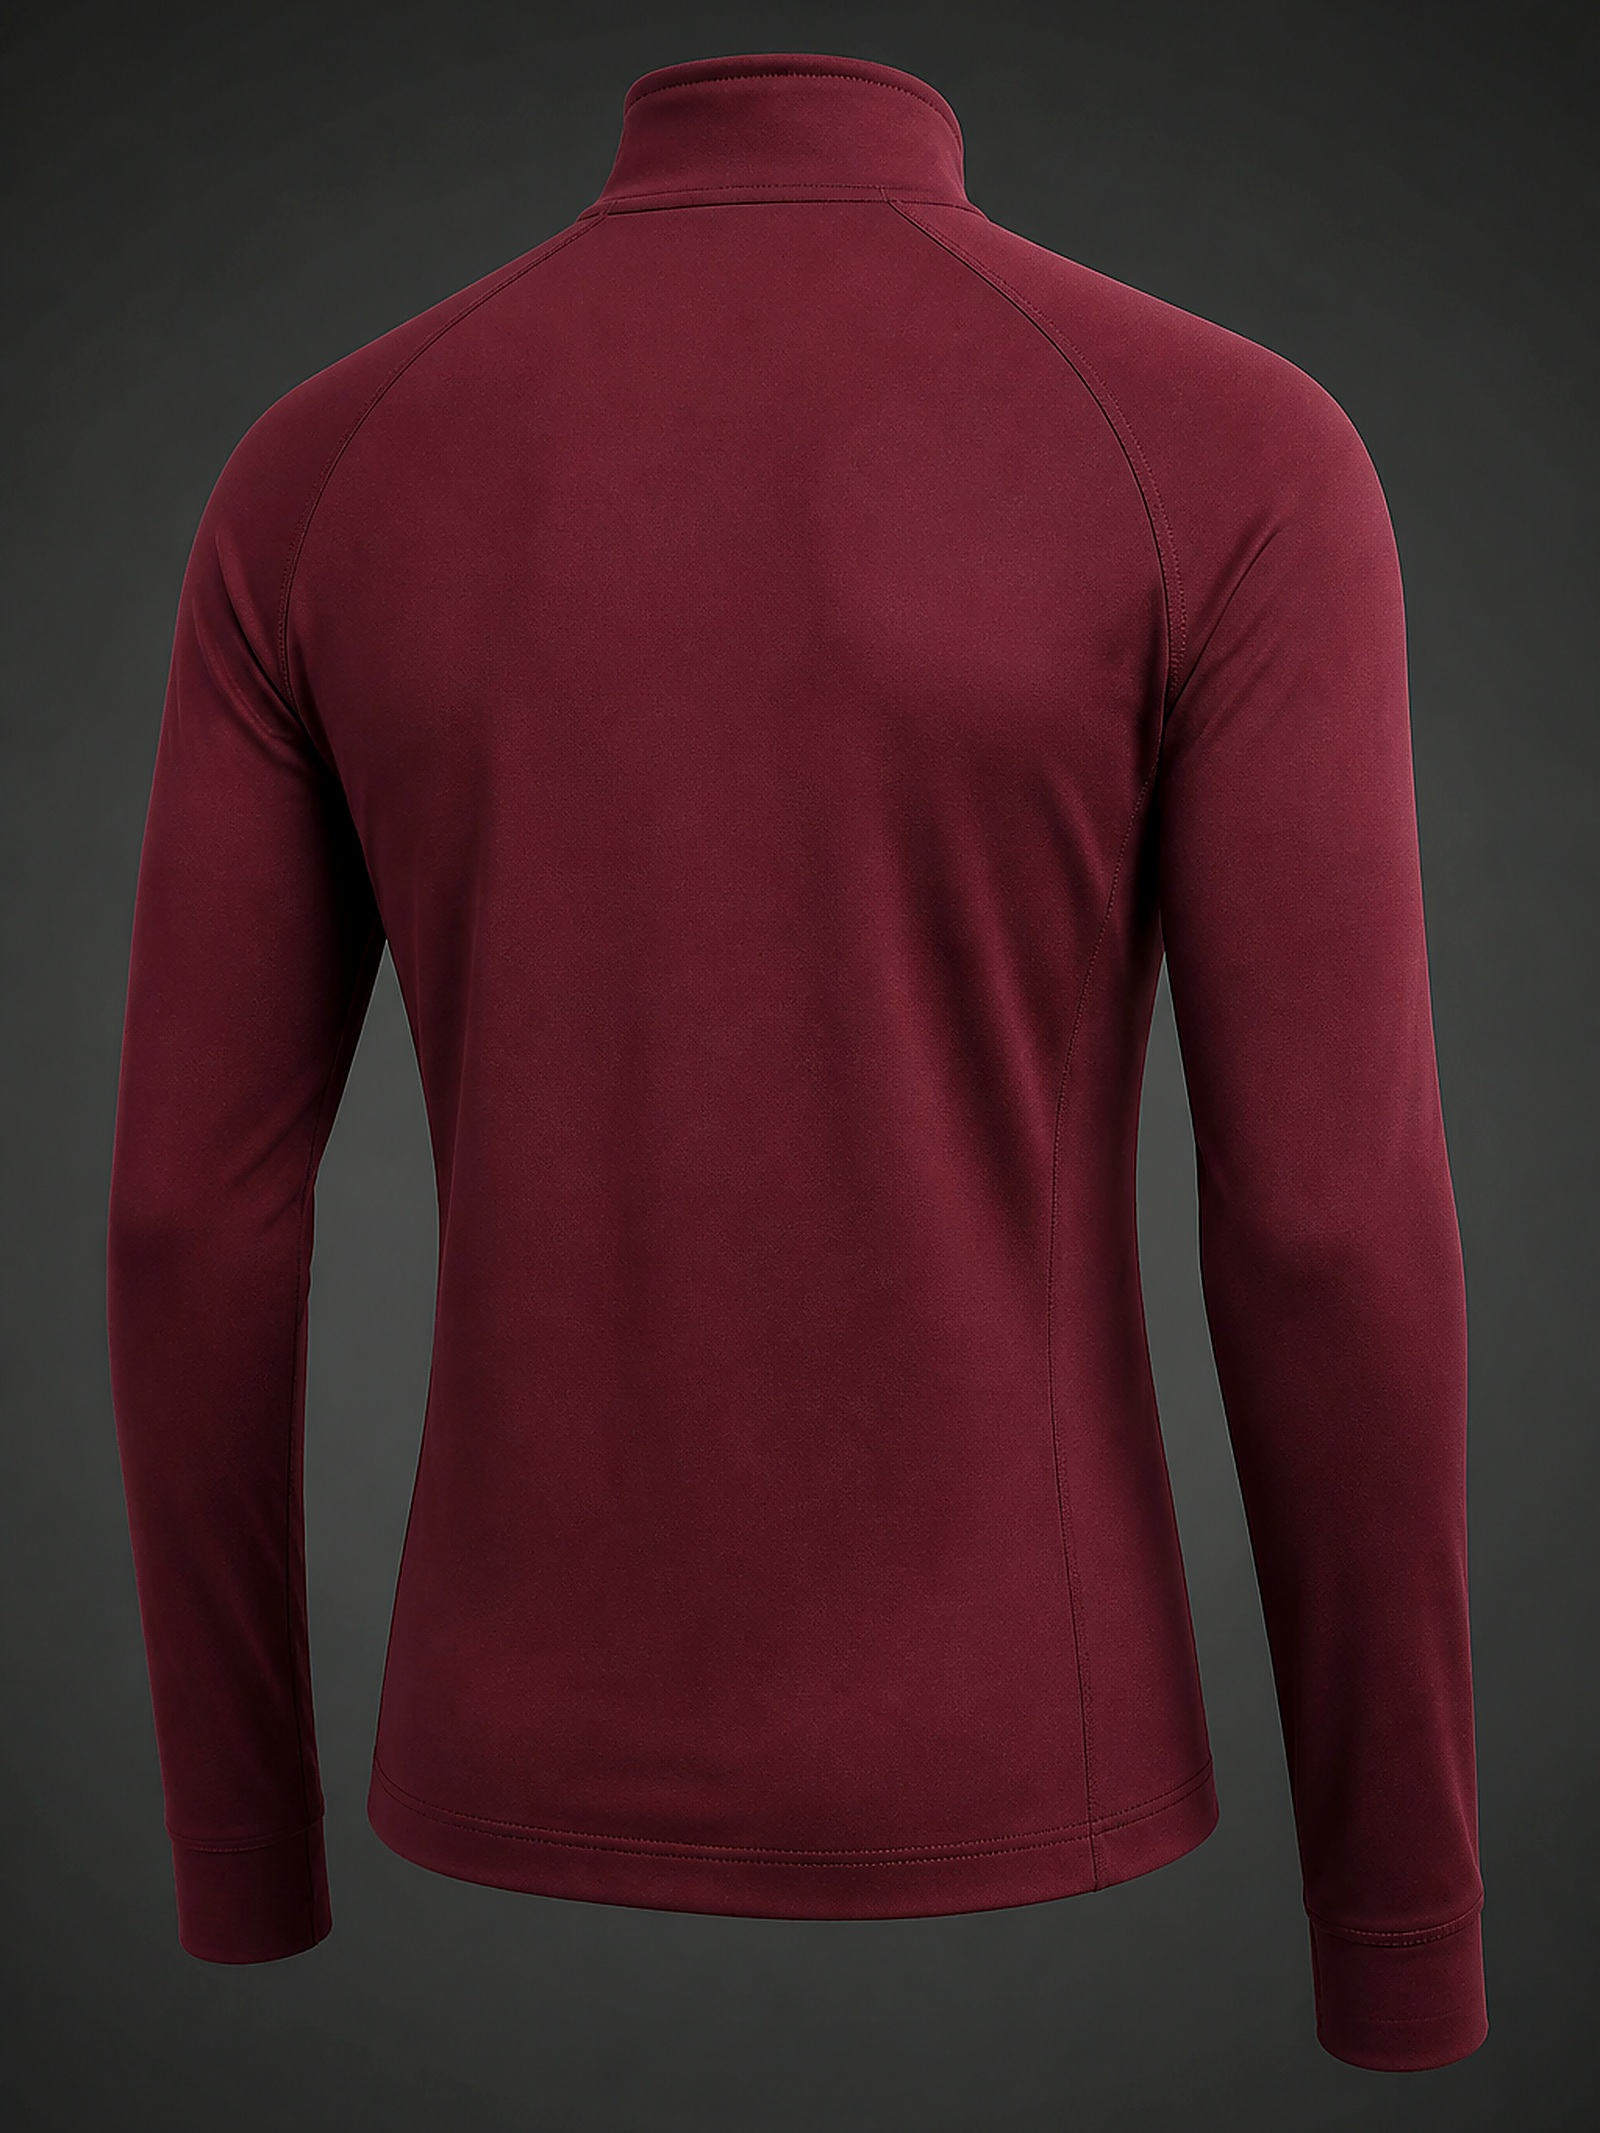
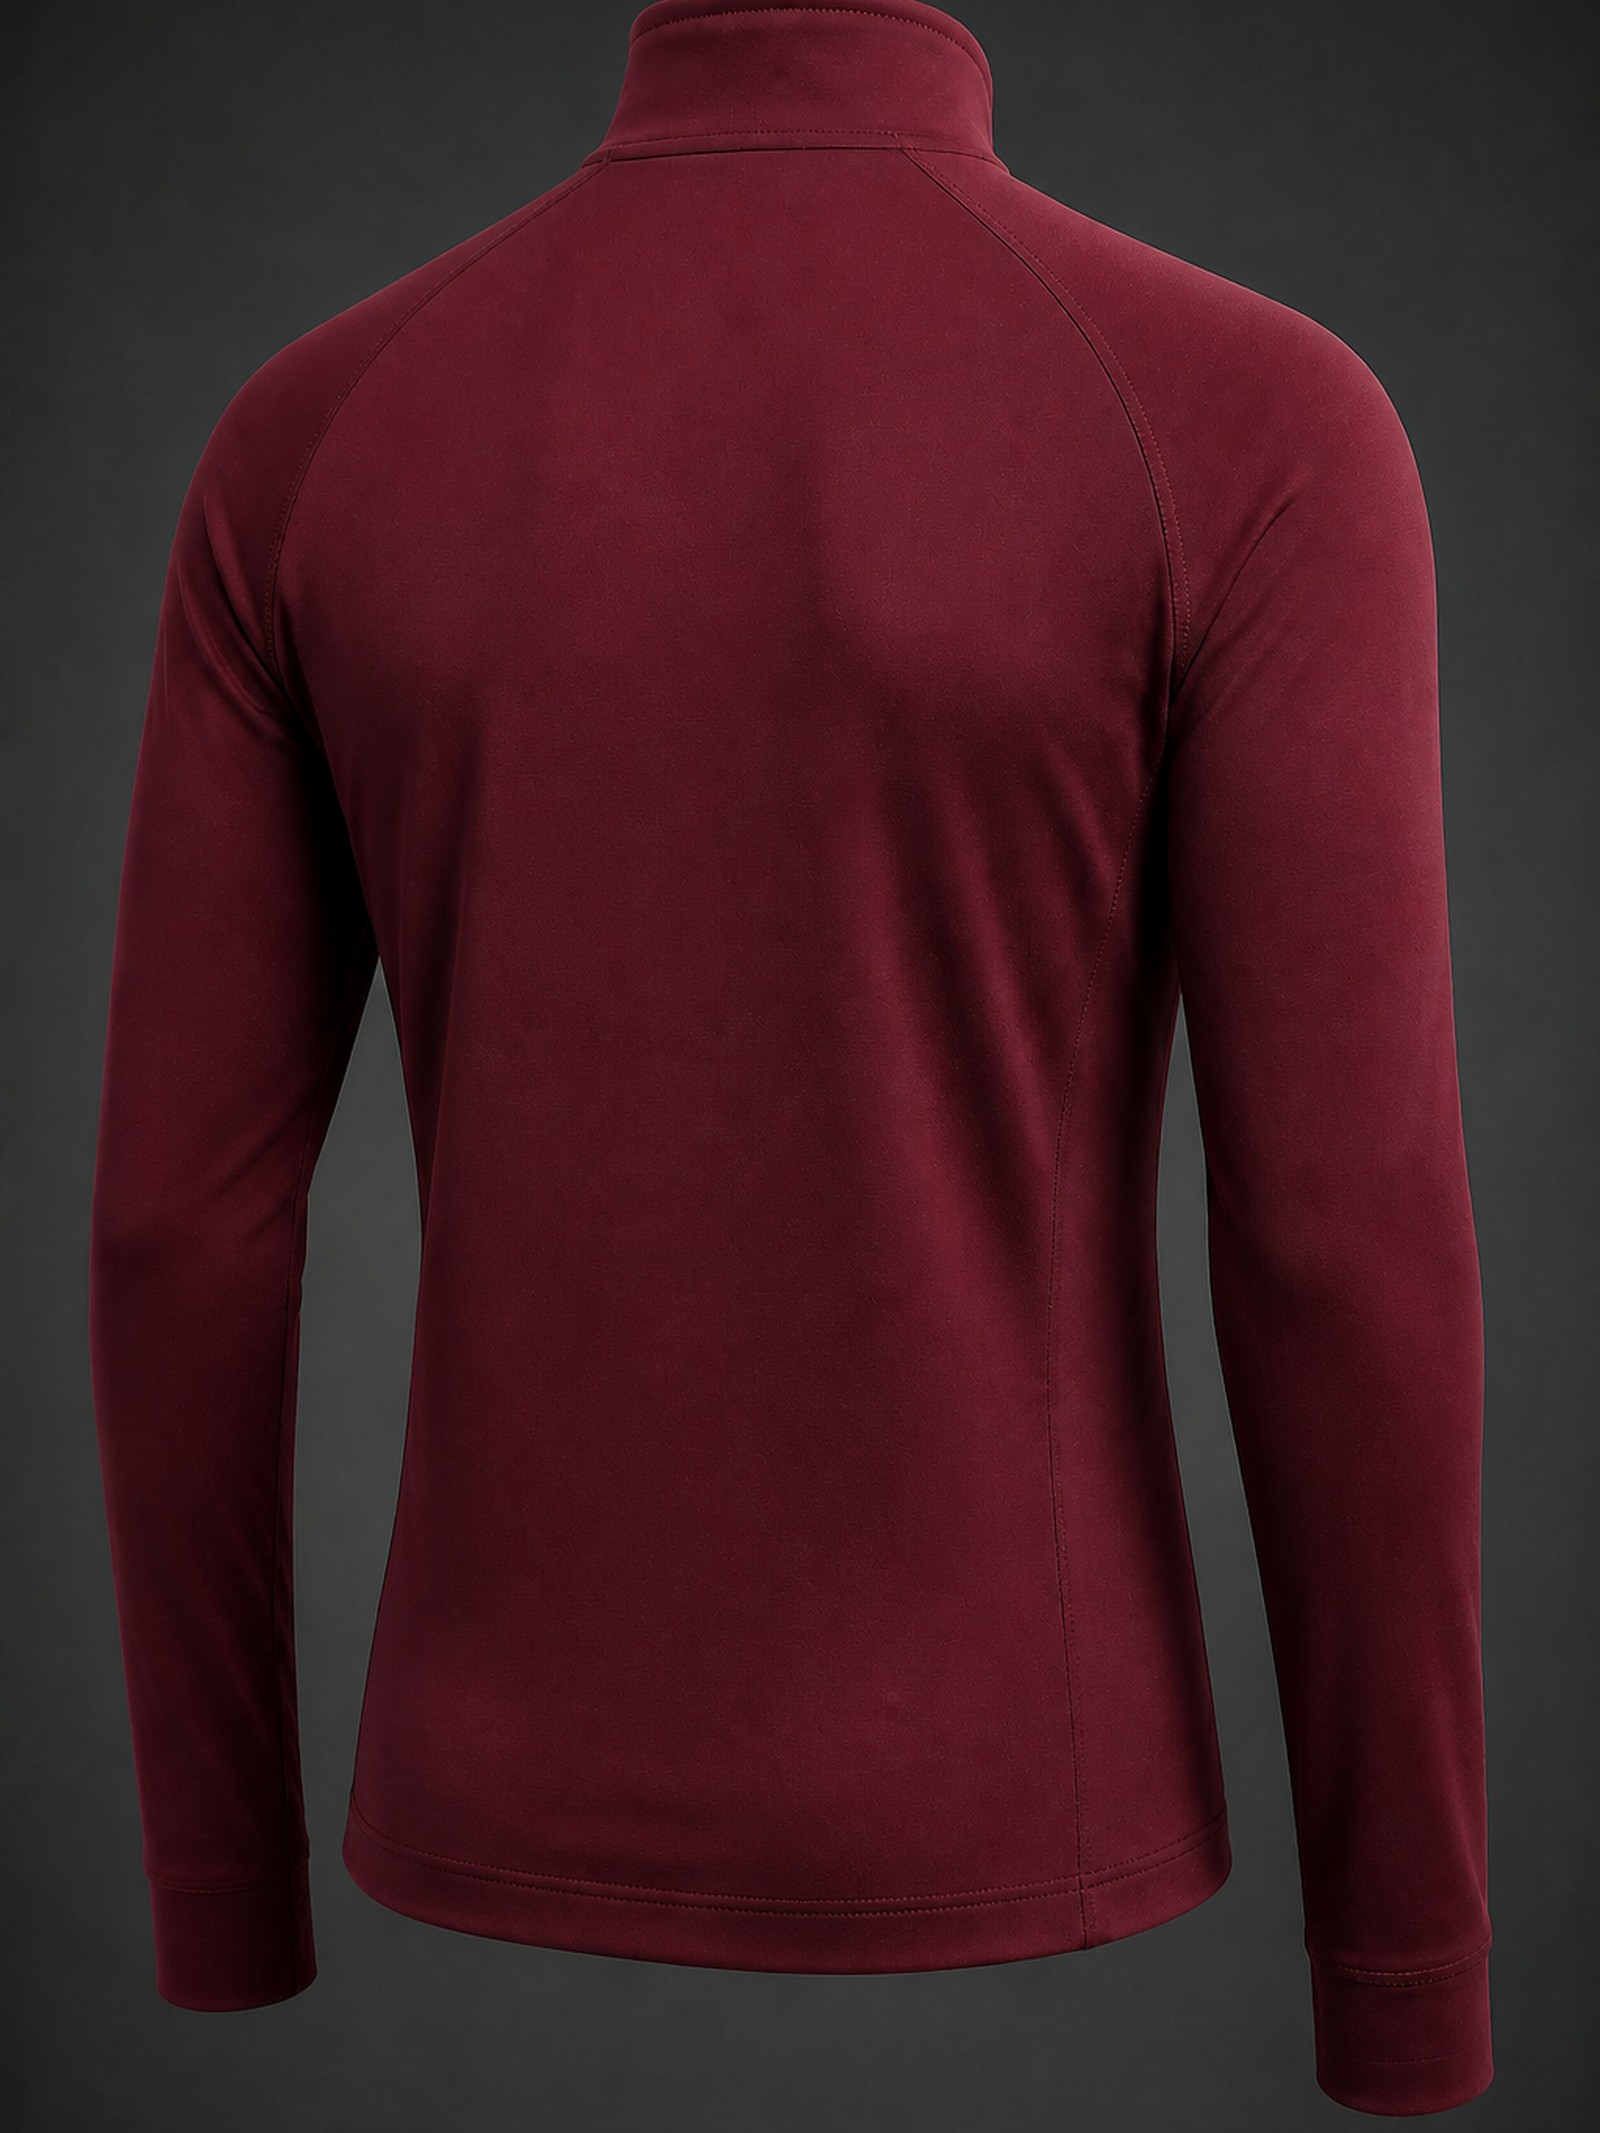
Merchize DTF/sublimation plates: heroes match live views
Regenerate every catalog garment as Merchize-printable dye-sub AOP
with flat DTF crests; wire category/landing heroes to the same preview
modules so hero and PDP live view are identical.

diff --git a/src/lib/catalog.ts b/src/lib/catalog.ts
@@ -11,13 +11,11 @@
 import type { Item, LetteringLayout } from "./kit";
 import { LETTERING } from "./kit";
 
-/* Category heroes — do not regenerate; campaign stills only */
-import heroKit from "@/assets/bayonne/heroes/hero-kit-studio.jpg";
-import heroSpirit from "@/assets/bayonne/heroes/hero-spirit-football.jpg";
-import heroCrew from "@/assets/bayonne/heroes/hero-crewneck-studio.jpg";
-import heroField from "@/assets/bayonne/heroes/hero-field-lifestyle.jpg";
-
-/* Photoreal PDP detail shots */
+/*
+ * Merchize-printable plates (dye-sublimation AOP + flat DTF crests).
+ * Heroes and live PDP views MUST share the same module — identical match.
+ * Blank map: docs/MERCHIZE_BLANKS.md
+ */
 import jerseyFront from "@/assets/bayonne/previews/jersey-front.jpg";
 import jerseyBack from "@/assets/bayonne/previews/jersey-back.jpg";
 import shortsFront from "@/assets/bayonne/previews/shorts-front.jpg";
@@ -94,25 +92,29 @@ export const CATEGORIES: Category[] = [
     id: "match",
     label: "Match",
     description: "What they wear when the whistle blows.",
-    hero: heroKit,
+    /** Identical to Match Jersey live preview */
+    hero: jerseyFront,
   },
   {
     id: "sideline",
     label: "Sideline",
     description: "For standing outside in November.",
-    hero: heroSpirit,
+    /** Identical to Hoops Jersey live preview */
+    hero: hoopsFront,
   },
   {
     id: "warmups",
     label: "Warmups",
     description: "What the team wears before the whistle.",
-    hero: heroCrew,
+    /** Identical to 1936 Crewneck live preview */
+    hero: crewFront,
   },
   {
     id: "alumni",
     label: "Alumni",
     description: "The years are on the sleeve, or the collar.",
-    hero: heroField,
+    /** Identical to Alumni Shorts live preview */
+    hero: geoShortsFront,
   },
 ];
 

diff --git a/src/routes/team.index.tsx b/src/routes/team.index.tsx
@@ -1,14 +1,16 @@
 import { Link, createFileRoute } from "@tanstack/react-router";
 
-import landingHero from "@/assets/bayonne/heroes/hero-landing.jpg";
-import fieldHero from "@/assets/bayonne/heroes/hero-field-lifestyle.jpg";
-import jerseyFront from "@/assets/bayonne/previews/jersey-front.jpg";
 import boxingBee from "@/assets/bayonne/spirit/boxing-bee.png";
 import { LiquidBackdrop } from "@/components/LiquidBackdrop";
 import { RevealCarousel } from "@/components/RevealCarousel";
 import { StoreCloseCountdown } from "@/components/StoreCloseCountdown";
 import { PRODUCTS, productById } from "@/lib/catalog";
 import { BAYONNE_BEES_KIT } from "@/lib/kits/bayonne-bees";
+
+/** Landing hero + kit plate = Full Kit / Match Jersey live plates (identical match). */
+const landingHero = productById("full-set")!.thumb;
+const jerseyFront = productById("jersey")!.thumb;
+const fieldHero = productById("geo-shorts")!.thumb;
 
 export const Route = createFileRoute("/team/")({
   head: () => {

diff --git a/docs/MERCHIZE_BLANKS.md b/docs/MERCHIZE_BLANKS.md
@@ -1,0 +1,38 @@
+# Merchize blank map — Bayonne Team Customs
+
+Print partner: **Merchize** (dye-sublimation AOP + DTF placements where noted).  
+Every store hero and live PDP preview must show the **same** garment plate for that SKU.
+
+## Print rendering rules
+
+| Method | Use on | Look |
+|---|---|---|
+| **Dye sublimation (AOP)** | Full garment / panel color, geo fields, chest bands dyed in fabric | Soft fabric weave visible *through* ink; no raised edge; seams may show panel joins |
+| **DTF** | Crest, wordmarks, small logos on dark mesh when needed | Thin film sit — flat, slight soft edge; **not** embroidered / 3D puff |
+
+Do **not** show constructed multi-fabric color-block collars that Merchize blanks don’t sew. Greys/blacks on AOP blanks are **printed**, not separate rib pieces (unless the blank’s real construction includes that trim).
+
+## SKU → Merchize blank
+
+| App product | Shopify handle | Merchize blank | Print |
+|---|---|---|---|
+| Match Jersey | `bayonne-bees-jersey` | [All-over Print V-neck Short Sleeve Jersey](https://merchize.com/product/v-neck-short-sleeve-jersey/) (SKU `VSSJVN`) | Sublimation AOP + DTF crest |
+| Match Shorts | `bayonne-bees-shorts` | [All-over Print Soccer Jersey Shorts](https://merchize.com/product/all-over-print-soccer-jersey-shorts/) | Sublimation AOP |
+| Full Kit Set | `bayonne-bees-full-set` | [All-over Print Soccer Jersey Set](https://merchize.com/product/all-over-print-soccer-jersey-set/) (SKU `SJSEVN`) | Sublimation AOP + DTF crest |
+| Hoops Jersey | `bayonne-bees-hoops-jersey` | [All-over Print Sleeveless Jersey Tank Top](https://merchize.com/product/all-over-print-sleeveless-jersey-tank-top/) | Sublimation + DTF |
+| Jersey Dress | `bayonne-bees-jersey-dress` | [All-over Print Hoodie Dress](https://merchize.com/product/all-over-print-hoodie-dress/) *(closest Merchize dress blank)* | Sublimation AOP |
+| Crest Cap | `bayonne-bees-aop-hat` | [All-over Print Baseball Cap](https://merchize.com/product/all-over-print-baseball-cap/) | Crown sublimation + DTF crest |
+| 1936 Crewneck | `bayonne-bees-crewneck` | All-over Print crew / sweatshirt blank (Merchize AOP fleece) | Sublimation AOP + DTF crest |
+| Base Layer Sweats | `bayonne-bees-sweatpants` | [All-over Print Sweatpants](https://merchize.com/product/all-over-print-sweatpants/) | Sublimation AOP |
+| Long-Sleeve Jersey | `bayonne-bees-ls-jersey` | Long-sleeve AOP jersey / hockey long sleeve blank | Sublimation + DTF |
+| Quarter-Zip | `bayonne-bees-quarter-zip` | [All-over Print Long Sleeve 1/4 Zip Jersey](https://merchize.com/product/all-over-print-long-sleeve-1-4-zip-jersey/) | Sublimation + DTF crest |
+| Alumni Shorts | `bayonne-bees-geo-shorts` | All-over Print Sports / Jersey Shorts | Sublimation AOP |
+
+## Hero = live view
+
+Category heroes and landing kit plates **import the same preview module** as the PDP (`src/lib/catalog.ts`). Do not maintain a parallel hero artwork set for the same garment.
+
+## Asset folder
+
+- Live + hero plates: `src/assets/bayonne/previews/`
+- Merchize reference downloads (not shipped to shoppers): `src/assets/bayonne/merchize-refs/` (optional, gitignored if large)

diff --git a/docs/LISTING_MAP.md b/docs/LISTING_MAP.md
@@ -59,19 +59,21 @@ Collection: **Team Customs**
 Tags (all): `team-customs`, `bayonne-bees`  
 Extra tag when customizable: `custom-name-number`
 
-| # | Shopify handle | Blank (from assortment) | Tier | Custom Name/Number | Configurator item |
+| # | Shopify handle | Merchize blank (printable) | Tier | Custom Name/Number | Configurator item |
 |---|---|---|---|---|---|
-| 1 | `bayonne-bees-jersey` | AOP / soccer V-neck short-sleeve jersey | **Core** | Yes — back | `top` |
-| 2 | `bayonne-bees-shorts` | Matching athletic shorts | **Core** | No — motif on side only | `bottom` |
-| 3 | `bayonne-bees-full-set` | Jersey + shorts set (or bundle) | **Core** | Yes — jersey | `set` |
-| 4 | `bayonne-bees-hoops-jersey` | Basketball sleeveless jersey tank | Spirit | Yes — chest/back | — |
-| 5 | `bayonne-bees-jersey-dress` | Basketball jersey dress (one-piece) | Spirit | Yes — back | — |
-| 6 | `bayonne-bees-aop-hat` | AOP baseball / dad hat | Spirit | No — motif + crest | — |
-| 7 | `bayonne-bees-crewneck` | AOP crewneck sweatshirt | Warm-up | No — motif on side panels | — |
-| 8 | `bayonne-bees-ls-jersey` | Long-sleeve V-neck athletic jersey | Warm-up | Script front + Name/# back | — |
-| 9 | `bayonne-bees-quarter-zip` | Quarter-zip pullover | Warm-up | Chest crest only | — |
-| 10 | `bayonne-bees-sweatpants` | Black base + garnet side-panel sweats | Warm-up | No — motif on side only | — |
-| 11 | `bayonne-bees-geo-shorts` | AOP geometric lifestyle shorts | Separate | No — motif on side only | — |
+| 1 | `bayonne-bees-jersey` | AOP V-neck Short Sleeve Jersey (`VSSJVN`) — dye-sub + DTF crest | **Core** | Yes — back | `top` |
+| 2 | `bayonne-bees-shorts` | AOP Soccer Jersey Shorts — dye-sub | **Core** | No — side geo | `bottom` |
+| 3 | `bayonne-bees-full-set` | AOP Soccer Jersey Set (`SJSEVN`) — dye-sub + DTF crest | **Core** | Yes — jersey | `set` |
+| 4 | `bayonne-bees-hoops-jersey` | AOP Sleeveless Jersey Tank — dye-sub + DTF crest | Spirit | Yes — back | — |
+| 5 | `bayonne-bees-jersey-dress` | AOP Hoodie Dress (closest dress blank) — dye-sub | Spirit | Yes — back | — |
+| 6 | `bayonne-bees-aop-hat` | AOP Baseball Cap — crown dye-sub + DTF crest | Spirit | No — fixed art | — |
+| 7 | `bayonne-bees-crewneck` | AOP crew / sweatshirt blank — dye-sub + DTF crest | Warm-up | No — side geo | — |
+| 8 | `bayonne-bees-ls-jersey` | AOP long-sleeve jersey blank — dye-sub + DTF | Warm-up | Yes — back | — |
+| 9 | `bayonne-bees-quarter-zip` | AOP Long Sleeve 1/4 Zip Jersey — dye-sub + DTF crest | Warm-up | Chest crest only | — |
+| 10 | `bayonne-bees-sweatpants` | AOP Sweatpants — dye-sub | Warm-up | No — side geo | — |
+| 11 | `bayonne-bees-geo-shorts` | AOP Sports / Jersey Shorts — dye-sub | Alumni | No — side geo | — |
+
+**Image rule:** Category heroes and PDP live views share the same preview file per garment. See `docs/MERCHIZE_BLANKS.md`.
 
 **PDP preview pairs**
 - Lettered tops → **front + back** (font + name/number UI)

diff --git a/src/assets/bayonne/previews/README.md b/src/assets/bayonne/previews/README.md
@@ -1,27 +1,33 @@
-# Product detail previews (PDP)
+# Product detail previews (PDP) — Merchize printable plates
 
-Photorealistic catalog shots for the live customizer.
-Ghost mannequin / product still, studio lighting, full garment in frame.
+Ghost-mannequin stills that match **Merchize dye-sublimation AOP blanks** with flat **DTF** crests.  
+Heroes import these **same modules** — no parallel campaign art for the garment.
+
+Blank map: [`docs/MERCHIZE_BLANKS.md`](../../../../docs/MERCHIZE_BLANKS.md)
+
+## Print look
+
+- **Sublimation:** color/geo dyed into polyester — fabric weave visible through ink
+- **DTF crest:** thin film sit, soft edge — not embroidered / 3D puff
+- Dark charcoal studio; full garment in frame; no manufacturer marks
 
 ## Tops with lettering — front + back
 
-| Product | Front | Back |
-|---|---|---|
-| Match Jersey | `jersey-front.jpg` (full-length black V-neck kit plate) | `jersey-back.jpg` |
-| Full Kit Set | `set-front.jpg` (canonical black-collar kit) | `jersey-back.jpg` (lettering plate) |
-| Hoops Jersey | `hoops-front.jpg` | `hoops-back.jpg` |
-| Jersey Dress | `dress-front.jpg` | `dress-back.jpg` |
-| Long-Sleeve Jersey | `ls-front.jpg` | `ls-back.jpg` |
-| Quarter-Zip | `qzip-front.jpg` | `qzip-back.jpg` |
+| Product | Front | Back | Merchize blank |
+|---|---|---|---|
+| Match Jersey | `jersey-front.jpg` | `jersey-back.jpg` | V-neck Short Sleeve Jersey `VSSJVN` |
+| Full Kit Set | `set-front.jpg` | `jersey-back.jpg` | Soccer Jersey Set `SJSEVN` |
+| Hoops Jersey | `hoops-front.jpg` | `hoops-back.jpg` | Sleeveless Jersey Tank |
+| Jersey Dress | `dress-front.jpg` | `dress-back.jpg` | Hoodie Dress (closest) |
+| Long-Sleeve Jersey | `ls-front.jpg` | `ls-back.jpg` | Long-sleeve AOP jersey |
+| Quarter-Zip | `qzip-front.jpg` | `qzip-back.jpg` | Long Sleeve 1/4 Zip Jersey |
 
-## Motif pieces — front + side (no typography)
+## Motif pieces — front + side
 
-| Product | Front | Side |
-|---|---|---|
-| Match Shorts | `shorts-front.jpg` (full-length waist-to-hem) | `shorts-side.jpg` |
-| Alumni Shorts | `geo-shorts-front.jpg` | `geo-shorts-side.jpg` |
-| 1936 Crewneck | `crew-front.jpg` | `crew-side.jpg` |
-| Base Layer Sweats | `sweats-front.jpg` | `sweats-side.jpg` |
-| AOP Hat | `hat-front.jpg` | `hat-side.jpg` |
-
-Category campaign heroes live in `../heroes/` and are separate — do not overwrite them from this folder.
+| Product | Front | Side | Merchize blank |
+|---|---|---|---|
+| Match Shorts | `shorts-front.jpg` | `shorts-side.jpg` | Soccer Jersey Shorts |
+| Alumni Shorts | `geo-shorts-front.jpg` | `geo-shorts-side.jpg` | Sports / Jersey Shorts |
+| 1936 Crewneck | `crew-front.jpg` | `crew-side.jpg` | AOP crew / sweatshirt |
+| Base Layer Sweats | `sweats-front.jpg` | `sweats-side.jpg` | AOP Sweatpants |
+| Crest Cap | `hat-front.jpg` | `hat-side.jpg` | AOP Baseball Cap |
